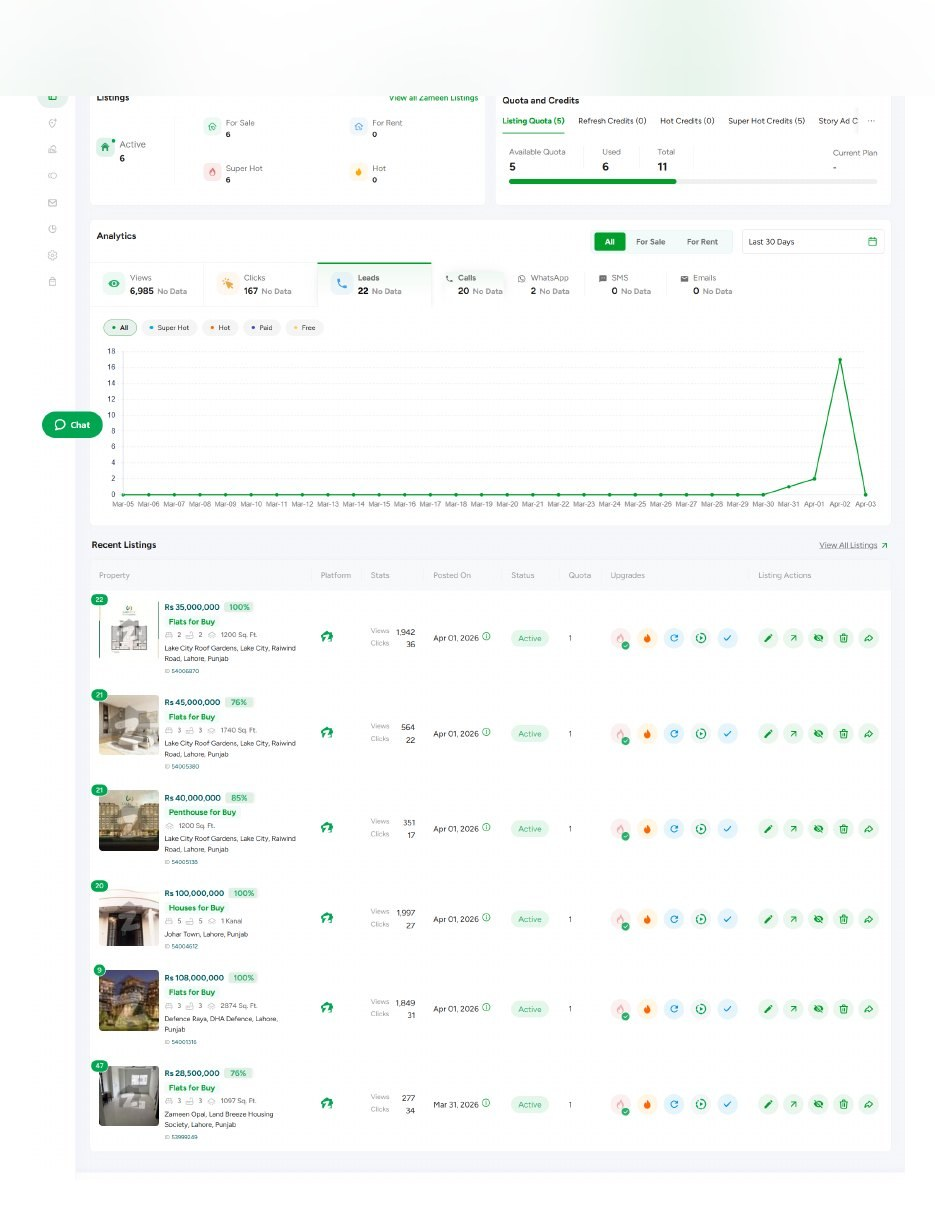
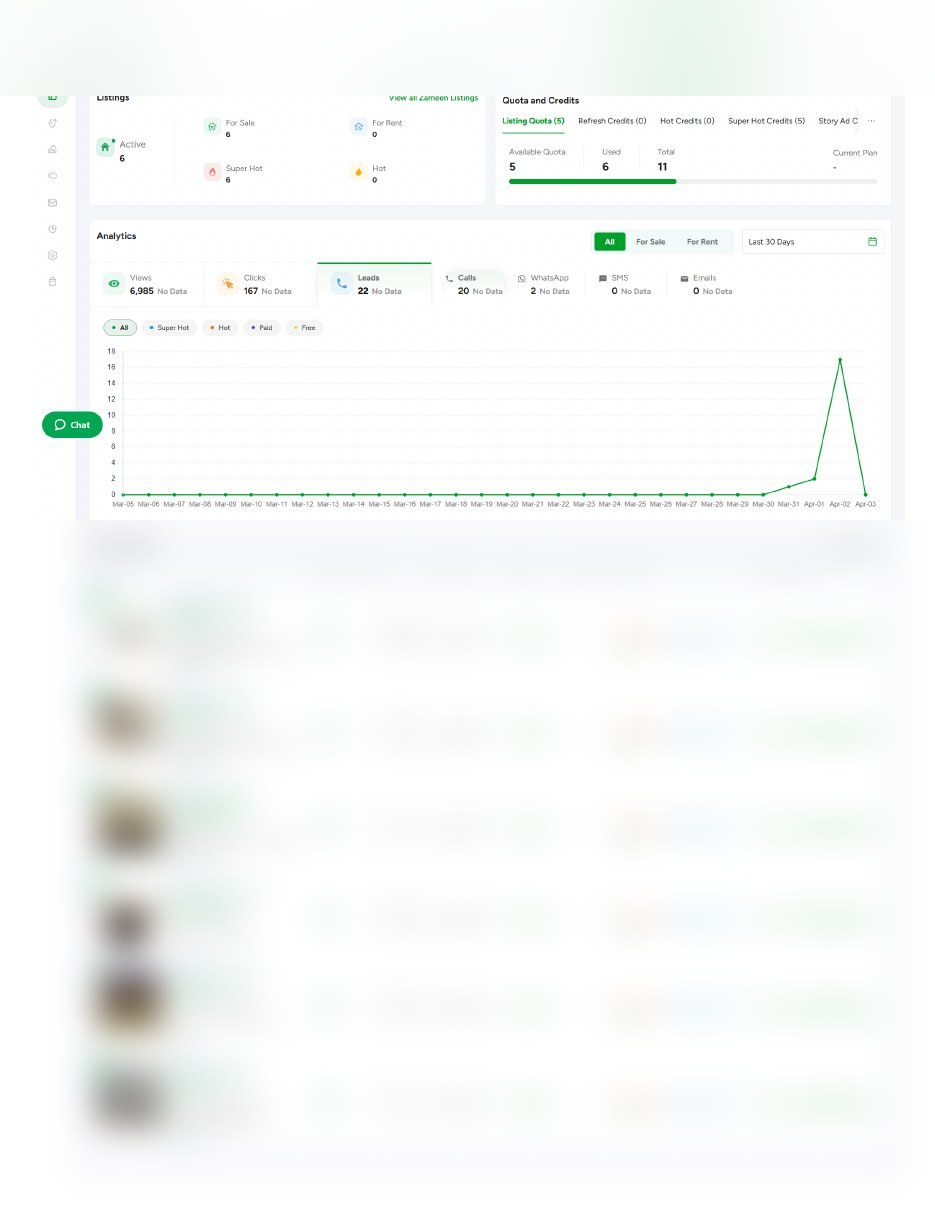
Redact what is left, and give the first screen something to press
The listings table went out whole — addresses, photographs, prices, all
of it — leaving the analytics above it, which is the part that is his.

The Canadian roster has no picture on the site at all now. The page keeps
what was done for them, five disciplines across eleven trades, and says
plainly that there are no screenshots because the roster is under NDA.

Cities become countries: the two Kenyan branches roll up into one Kenya
row at $0.30, which is what the weighted figure actually is, and the
market strip says Kenya rather than naming the branch.

The first screen was too quiet to act on. The headline runs to 104px, the
action is a bar you press rather than a caption with an arrow beside it,
and it carries the one colour on the site — on the ring at rest, filling
the whole bar on hover, with a slow pulse beside the keyboard hint. The
card from the index comes to the gate too: the work half shows a case
plate, the person half shows the drawing.

Claude-Session: https://claude.ai/code/session_01NT6ttGCqyWMcE62YdZSvuC

diff --git a/index.html b/index.html
@@ -25,6 +25,7 @@
   --paper:#FBFAF8;      /* off-white ink */
   --quiet:#8A8A86;      /* label grey */
   --hair:#232322;       /* rules */
+  --acid:#D9FF3F;      /* the one colour, and only on the thing you press */
   --dim:#78766F;        /* small caps still need 4.5:1 on the ink */
   --plate:#FBFAF8;      /* paper the portrait is printed on */
   --display:Anton,Impact,"Haettenschweiler","Arial Narrow Bold",sans-serif;
@@ -151,9 +152,9 @@ a{color:inherit;text-decoration:none}
 .hw .pill{border:1px solid #2B2A28;color:var(--quiet)}
 .hp .pill{border:1px solid #DCD8D0;color:#6E6B66}
 .dk{display:block;font-family:var(--display);text-transform:uppercase;font-weight:400;
-  letter-spacing:-.012em;font-size:clamp(30px,4.3vw,66px);line-height:.9}
-.dn{display:block;margin-top:clamp(10px,1.1vw,16px);font-family:var(--tag);
-  font-size:clamp(12px,1vw,16px);line-height:1.45;max-width:30ch;
+  letter-spacing:-.015em;font-size:clamp(38px,6.6vw,104px);line-height:.86}
+.dn{display:block;margin-top:clamp(12px,1.3vw,20px);font-family:var(--tag);
+  font-size:clamp(13px,1.15vw,19px);line-height:1.4;max-width:30ch;
   transform:rotate(-1.1deg);transform-origin:left;transition:color .5s}
 .hw .dn{color:var(--dim)} .hp .dn{color:#6E6B66}
 /* At rest each half runs its own index down the far edge, so the screen is
@@ -192,20 +193,23 @@ a{color:inherit;text-decoration:none}
 /* the action line: what happens when you click, and the arrow that says you can */
 .hfoot{display:flex;flex-direction:column;gap:clamp(10px,1.1vw,15px)}
 .dgo{display:flex;align-items:center;justify-content:space-between;gap:16px;
-  padding-top:clamp(14px,1.4vw,20px)}
-.hw .dgo{border-top:1px solid #272624} .hp .dgo{border-top:1px solid #DCD8D0}
-.dgt{font-family:var(--ui);font-weight:400;font-size:11px;letter-spacing:.2em;
-  text-transform:uppercase;transition:color .45s}
+  padding:clamp(13px,1.3vw,18px) clamp(14px,1.4vw,20px) clamp(13px,1.3vw,18px)
+          clamp(18px,1.8vw,26px);
+  border-radius:999px;transition:background .45s cubic-bezier(.3,0,.1,1),
+                                border-color .45s cubic-bezier(.3,0,.1,1)}
+.hw .dgo{border:1px solid #38352F} .hp .dgo{border:1px solid #D3CEC5}
+.dgt{font-family:var(--ui);font-weight:400;font-size:clamp(11px,.95vw,13px);
+  letter-spacing:.2em;text-transform:uppercase;transition:color .45s}
 .hw .dgt{color:var(--quiet)} .hp .dgt{color:#5E5B57}
 .meta{font-family:var(--ui);font-size:9px;letter-spacing:.26em;text-transform:uppercase}
 .meta i{font-style:normal}
 .hw .meta{color:#54514D} .hp .meta{color:#A09B93}
 .meta .tp{display:none}
-.dar{flex:none;width:clamp(44px,3.6vw,58px);height:clamp(44px,3.6vw,58px);
+.dar{flex:none;width:clamp(38px,3vw,48px);height:clamp(38px,3vw,48px);
   border-radius:50%;display:grid;place-items:center;
   transition:background .5s cubic-bezier(.22,1,.36,1),
              border-color .5s cubic-bezier(.22,1,.36,1)}
-.hw .dar{border:1px solid #3C3A37} .hp .dar{border:1px solid #CFCAC2}
+.hw .dar,.hp .dar{border:1px solid var(--acid)}
 .dar svg{width:44%;height:44%;fill:none;stroke-width:1.6;
   stroke-linecap:round;stroke-linejoin:round;
   transition:stroke .5s,transform .5s cubic-bezier(.22,1,.36,1)}
@@ -220,15 +224,20 @@ a{color:inherit;text-decoration:none}
   .half:hover .evc{opacity:1}
   .half:hover .e1{transform:rotate(1.4deg) translateY(0)}
   .half:hover .e2{transform:rotate(-1.2deg) translateY(0)}
-  .hw:hover .dgt,.hw:hover .pill{color:var(--paper)}
-  .hw:hover .pill{border-color:#55524E}
-  .hw:hover .dar{background:var(--paper);border-color:var(--paper)}
-  .hw:hover .dar svg{stroke:var(--ink);transform:translateX(2px)}
-  .hp:hover .dgt,.hp:hover .pill{color:var(--ink)}
-  .hp:hover .pill{border-color:#B6B1A9}
-  .hp:hover .dar{background:var(--ink);border-color:var(--ink)}
-  .hp:hover .dar svg{stroke:var(--paper);transform:translateX(2px)}
+  .hw:hover .pill{color:var(--paper);border-color:#55524E}
+  .hp:hover .pill{color:var(--ink);border-color:#B6B1A9}
+  /* the button lights up in the one colour the site owns */
+  .half:hover .dgo{background:var(--acid);border-color:var(--acid)}
+  .half:hover .dgt{color:#121209}
+  .half:hover .dar{background:#121209;border-color:#121209}
+  .half:hover .dar svg{stroke:var(--acid);transform:translateX(2px)}
 }
+/* something on the screen has a pulse, so it reads as live rather than printed */
+.meta{display:flex;align-items:center;gap:9px}
+.pulse{width:6px;height:6px;border-radius:50%;background:var(--acid);flex:none;
+  animation:beat 2.4s ease-in-out infinite}
+@keyframes beat{0%,100%{opacity:.25;transform:scale(.8)}50%{opacity:1;transform:scale(1)}}
+@media (prefers-reduced-motion:reduce){ .pulse{animation:none;opacity:.8} }
 .half:focus-visible{outline:2px solid currentColor;outline-offset:-12px}
 /* the monogram rides the seam and leans toward whichever side is winning */
 .seam{position:absolute;left:50%;top:50%;z-index:5;opacity:0;
@@ -390,7 +399,7 @@ a{color:inherit;text-decoration:none}
    evidence under the cursor: the screenshot and the number the case turns on.
    It is a preview of the page you are about to open, not decoration, so it
    carries the real plate from that case. Pointer devices only. */
-.pk{position:fixed;left:0;top:0;z-index:40;width:280px;pointer-events:none;
+.pk{position:fixed;left:0;top:0;z-index:70;width:280px;pointer-events:none;
   opacity:0;will-change:transform;
   border:1px solid #2E2C2A;background:#0C0C0B;
   box-shadow:0 26px 60px rgba(0,0,0,.72)}
@@ -542,8 +551,8 @@ a{color:inherit;text-decoration:none}
         <span class="dn">Twelve cases. Screenshots, invoices, dashboards.</span>
       </span>
       <span class="hfoot">
-        <span class="dgo"><span class="dgt">Open the case files</span><span class="dar" aria-hidden="true"><svg viewBox="0 0 26 26"><path d="M5 13h15M13.5 6.5 20 13l-6.5 6.5"/></svg></span></span>
-        <span class="meta"><i class="kb">Press 1 or click</i><i class="tp">Tap this half</i></span>
+        <span class="dgo" role="presentation"><span class="dgt">Open the case files</span><span class="dar" aria-hidden="true"><svg viewBox="0 0 26 26"><path d="M5 13h15M13.5 6.5 20 13l-6.5 6.5"/></svg></span></span>
+        <span class="meta"><b class="pulse" aria-hidden="true"></b><i class="kb">Press 1 or click</i><i class="tp">Tap this half</i></span>
       </span>
     </a>
     <a class="half hp" href="#who" data-go="who">
@@ -558,8 +567,8 @@ a{color:inherit;text-decoration:none}
         <span class="dn">Where I work, what I run, how to reach me.</span>
       </span>
       <span class="hfoot">
-        <span class="dgo"><span class="dgt">Start at the beginning</span><span class="dar" aria-hidden="true"><svg viewBox="0 0 26 26"><path d="M5 13h15M13.5 6.5 20 13l-6.5 6.5"/></svg></span></span>
-        <span class="meta"><i class="kb">Press 2 or click</i><i class="tp">Tap this half</i></span>
+        <span class="dgo" role="presentation"><span class="dgt">Start at the beginning</span><span class="dar" aria-hidden="true"><svg viewBox="0 0 26 26"><path d="M5 13h15M13.5 6.5 20 13l-6.5 6.5"/></svg></span></span>
+        <span class="meta"><b class="pulse" aria-hidden="true"></b><i class="kb">Press 2 or click</i><i class="tp">Tap this half</i></span>
       </span>
     </a>
   </nav>
@@ -670,7 +679,7 @@ a{color:inherit;text-decoration:none}
         <span class="idx">05</span>
         <span class="ttl">An email platform built in-house instead of rented</span>
         <span class="met">158,933 sends</span></span></a>
-      <a class="row" href="/work/twelve-brands/" data-slug="twelve-brands" data-peek="/assets/work/cs/salon.jpg" data-fig="12" data-fk="brands" data-industry="Local services" data-market="Canada"><span class="sweep"></span><span class="in">
+      <a class="row" href="/work/twelve-brands/" data-slug="twelve-brands" data-peek="" data-fig="12" data-fk="brands" data-industry="Local services" data-market="Canada"><span class="sweep"></span><span class="in">
         <span class="idx">06</span>
         <span class="ttl">Twelve Canadian brands, handled end to end</span>
         <span class="met">Search, brand, web</span></span></a>
@@ -690,7 +699,7 @@ a{color:inherit;text-decoration:none}
         <span class="idx">10</span>
         <span class="ttl">Brand protection, from the first copy to the takedown</span>
         <span class="met">Content theft</span></span></a>
-      <a class="row" href="/work/account-recovery/" data-slug="account-recovery" data-peek="/assets/work/cs/insta.jpg" data-fig="112K" data-fk="followers back" data-industry="Brand" data-market="Mombasa"><span class="sweep"></span><span class="in">
+      <a class="row" href="/work/account-recovery/" data-slug="account-recovery" data-peek="/assets/work/cs/insta.jpg" data-fig="112K" data-fk="followers back" data-industry="Brand" data-market="Kenya"><span class="sweep"></span><span class="in">
         <span class="idx">11</span>
         <span class="ttl">A 112,000-follower account, taken and recovered</span>
         <span class="met">Social</span></span></a>
@@ -1493,6 +1502,25 @@ Promise.resolve(JSON.parse(document.getElementById('sigdata').textContent)).then
     .to('.dar svg', {x:0, duration:.8, ease:'elastic.out(1,.55)', stagger:.08}, '-=0.14')
     .set(skip, {display:'block'}, '-=0.9')
     .to(skip, {opacity:1, duration:.5, ease:'power2.out'}, '-=0.85');
+
+  // the same card the index uses, so the gesture is one gesture
+  if (!RM && matchMedia('(hover: hover)').matches && doors){
+    const plate = document.querySelector('.plate');
+    const cards = {
+      work: {img:'/assets/work/grp/cover.jpg', fig:'12', fk:'cases on file'},
+      who:  {img: plate ? plate.dataset.src : '', fig:'2018', fk:'to now, five markets'}
+    };
+    doors.querySelectorAll('a').forEach(a => {
+      const d = cards[a.dataset.go] || {};
+      a.addEventListener('mouseenter', e => {
+        if (window.__peek) window.__peek.show(d, e.clientX, e.clientY);
+      });
+      a.addEventListener('mousemove', e => {
+        if (window.__peek) window.__peek.move(e.clientX, e.clientY);
+      }, {passive:true});
+      a.addEventListener('mouseleave', () => { if (window.__peek) window.__peek.hide(); });
+    });
+  }
 
   if (doors) doors.querySelectorAll('a').forEach(a => {
     a.addEventListener('click', e => { e.preventDefault(); open(a.dataset.go); });

diff --git a/work/twelve-brands/index.html b/work/twelve-brands/index.html
@@ -5,12 +5,11 @@
 <meta name="viewport" content="width=device-width, initial-scale=1, viewport-fit=cover">
 <meta name="robots" content="noindex, nofollow">
 <title>Twelve brands, one roster — SQ Shah</title>
-<meta name="description" content="A Surrey agency roster covering eleven trades, handled remotely from Pakistan.">
+<meta name="description" content="An agency roster covering eleven trades, handled remotely from Pakistan.">
 <link rel="icon" href="/assets/favicon.ico" sizes="any">
 <meta name="theme-color" content="#000000">
 <meta property="og:title" content="Twelve brands, one roster">
-<meta property="og:description" content="A Surrey agency roster covering eleven trades, handled remotely from Pakistan.">
-<meta property="og:image" content="/assets/work/cs/salon.jpg">
+<meta property="og:description" content="An agency roster covering eleven trades, handled remotely from Pakistan.">
 <link rel="preload" href="/assets/fonts/anton.woff2" as="font" type="font/woff2" crossorigin>
 <link rel="preload" href="/assets/fonts/instrument.woff2" as="font" type="font/woff2" crossorigin>
 <link rel="stylesheet" href="/assets/case.css">
@@ -28,7 +27,6 @@
 </nav>
 
 <section class="cover">
-  <div class="shot"><img src="/assets/work/cs/salon.jpg" alt="" aria-hidden="true"></div>
   <div class="wrap">
     <p class="tagline">eleven trades, one person</p>
     <h1 class="h">12 <span class="mk">brands</span></h1>
@@ -70,14 +68,19 @@
     </div>
   </div>
   <div class="body">
-    <figure class="plate">
-      <img src="/assets/work/cs/salon.jpg" alt="Brand and identity work for one of the twelve">
-      <figcaption><span class="lbl">Brand work</span><span class="lbl">One of twelve, name withheld</span></figcaption>
-    </figure>
+    <div class="lst" data-rise>
+      <div class="pt"><span class="lbl">What each brand got</span>
+        <span class="lbl">the same standard, eleven trades</span></div>
+      <div class="lr"><span class="ln2">Technical and on-page search</span><i></i><span class="ls">per site</span></div>
+      <div class="lr"><span class="ln2">Citations and local listings</span><i></i><span class="ls">per trade</span></div>
+      <div class="lr"><span class="ln2">Link building</span><i></i><span class="ls">ongoing</span></div>
+      <div class="lr"><span class="ln2">Content</span><i></i><span class="ls">to the brief</span></div>
+      <div class="lr"><span class="ln2">Brand and identity work</span><i></i><span class="ls">where it was missing</span></div>
+    </div>
     <div class="fig" data-rise>
       <span class="v" data-n="12">12</span>
       <span class="lbl k">Brands at once</span>
-      <p class="note" style="margin-top:14px">names withheld &mdash; available on request</p>
+      <p class="note" style="margin-top:14px">no screenshots &mdash; roster under agency NDA</p>
     </div>
   </div>
 </section>

diff --git a/work/motor-group/index.html b/work/motor-group/index.html
@@ -43,7 +43,7 @@
 <section class="strip">
   <div class="wrap"><div class="in">
     <div><span class="lbl">Industry</span><b>Automotive</b></div>
-    <div><span class="lbl">Market</span><b>Mombasa</b></div>
+    <div><span class="lbl">Market</span><b>Kenya</b></div>
     <div><span class="lbl">Duration</span><b>Four years</b></div>
     <div><span class="lbl">Channels</span><b>Google, Meta, Email</b></div>
     <div><span class="lbl">Role</span><b>Performance lead</b></div>
@@ -94,27 +94,24 @@
         <span class="mark" aria-hidden="true"><svg viewBox="0 0 32 32"><path d="M5 20c0-7 3.4-11 7-11s5 4 8 8 4.6 5 6 5c2.2 0 3-2 3-5s-1.4-6-4-6"/></svg></span>
         <h2 class="h">Meta carried the <span class="mk">leads</span></h2>
       </div>
-      <div class="meta"><span>Lead forms</span><span>Traffic</span><span>Boosted posts</span><span>Five branches</span></div>
+      <div class="meta"><span>Lead forms</span><span>Traffic</span><span>Boosted posts</span><span>Three markets</span></div>
     </div>
   </div>
   <div class="body">
     <div class="panel" data-panel>
-      <div class="pt"><span class="lbl">Leads by branch</span>
+      <div class="pt"><span class="lbl">Leads by market</span>
         <span class="lbl">16.9M reached &nbsp;&middot;&nbsp; 32.2M impressions</span></div>
-      <div class="br"><span class="bn">Dar es Salaam</span>
+      <div class="br"><span class="bn">Kenya</span>
         <span class="tk" style="--w:100.0%"><i></i></span>
+        <span class="bv">19,881</span><span class="bc">$0.30</span></div>
+      <div class="br"><span class="bn">Tanzania</span>
+        <span class="tk" style="--w:59.7%"><i></i></span>
         <span class="bv">11,866</span><span class="bc">$0.30</span></div>
-      <div class="br"><span class="bn">Kampala</span>
-        <span class="tk" style="--w:96.4%"><i></i></span>
+      <div class="br"><span class="bn">Uganda</span>
+        <span class="tk" style="--w:57.5%"><i></i></span>
         <span class="bv">11,435</span><span class="bc">$0.34</span></div>
-      <div class="br"><span class="bn">Mombasa</span>
-        <span class="tk" style="--w:90.1%"><i></i></span>
-        <span class="bv">10,693</span><span class="bc">$0.39</span></div>
-      <div class="br"><span class="bn">Kisumu</span>
-        <span class="tk" style="--w:77.4%"><i></i></span>
-        <span class="bv">9,188</span><span class="bc">$0.19</span></div>
       <div class="br"><span class="bn">Commercial</span>
-        <span class="tk" style="--w:30.0%"><i></i></span>
+        <span class="tk" style="--w:17.9%"><i></i></span>
         <span class="bv">3,565</span><span class="bc">$0.17</span></div>
     </div>
     <div class="fig" data-rise>

diff --git a/work/account-recovery/index.html b/work/account-recovery/index.html
@@ -65,7 +65,7 @@
         <span class="mark" aria-hidden="true"><svg viewBox="0 0 32 32"><rect x="6" y="14" width="20" height="14"/><path d="M11 14v-4a5 5 0 0 1 10 0v4"/></svg></span>
         <h2 class="h">Persistence and a paper <span class="mk">trail</span></h2>
       </div>
-      <div class="meta"><span>Compromised</span><span>Official route failed</span><span>Mombasa branch</span></div>
+      <div class="meta"><span>Compromised</span><span>Official route failed</span><span>One branch</span></div>
     </div>
   </div>
   <div class="body">

diff --git a/build_cases.py b/build_cases.py
@@ -50,7 +50,7 @@ CASES = [
         big='$0.29', bigmk='a lead',
         sub='Six ad accounts for an East African motor group, consolidated into one '
             'structure that could say what a sale had cost.',
-        strip=[('Industry', 'Automotive'), ('Market', 'Mombasa'),
+        strip=[('Industry', 'Automotive'), ('Market', 'Kenya'),
                ('Duration', 'Four years'), ('Channels', 'Google, Meta, Email'),
                ('Role', 'Performance lead')],
         problem=dict(head='Nobody knew what a <span class="mk">sale</span> cost',
@@ -66,12 +66,13 @@ CASES = [
                  fig=fig('1,238,753', 1238753), figk='Clicks', note='three cents each'),
             dict(id='meta', label='Meta', icon='swoosh',
                  head='Meta carried the', mk='leads',
-                 chips=['Lead forms', 'Traffic', 'Boosted posts', 'Five branches'],
+                 chips=['Lead forms', 'Traffic', 'Boosted posts', 'Three markets'],
                  panel=dict(
-                     left='Leads by branch',
+                     left='Leads by market',
                      right='16.9M reached &nbsp;&middot;&nbsp; 32.2M impressions',
-                     rows=[('Dar es Salaam', 11866, '$0.30'), ('Kampala', 11435, '$0.34'),
-                           ('Mombasa', 10693, '$0.39'), ('Kisumu', 9188, '$0.19'),
+                     # two Kenyan branches, rolled up: the country is the public unit
+                     rows=[('Kenya', 19881, '$0.30'), ('Tanzania', 11866, '$0.30'),
+                           ('Uganda', 11435, '$0.34'),
                            ('Commercial', 3565, '$0.17')]),
                  fig=fig('46,747', 46747), figk='Leads at $0.30', note='five branches'),
             dict(id='email', label='Email', icon='mail',
@@ -353,9 +354,7 @@ CASES = [
     dict(
         slug='twelve-brands',
         title='Twelve brands, one roster',
-        desc='A Surrey agency roster covering eleven trades, handled remotely from '
-             'Pakistan.',
-        shot='/assets/work/cs/salon.jpg',
+        desc='An agency roster covering eleven trades, handled remotely from Pakistan.',
         tagline='eleven trades, one person',
         big='12', bigmk='brands',
         sub='A daycare, construction, landscaping, a restaurant, a salon, plumbing, pest '
@@ -369,11 +368,15 @@ CASES = [
             dict(id='search', label='Search', icon='link',
                  head='Off-page carried the', mk='rankings',
                  chips=['Link building', 'Citations', 'Local listings', 'Content'],
-                 img='/assets/work/cs/salon.jpg',
-                 alt='Brand and identity work for one of the twelve',
-                 cap=('Brand work', 'One of twelve, name withheld'),
+                 lst=dict(left='What each brand got',
+                          right='the same standard, eleven trades',
+                          rows=[('Technical and on-page search', 'per site'),
+                                ('Citations and local listings', 'per trade'),
+                                ('Link building', 'ongoing'),
+                                ('Content', 'to the brief'),
+                                ('Brand and identity work', 'where it was missing')]),
                  fig=fig('12', 12), figk='Brands at once',
-                 note='names withheld &mdash; available on request'),
+                 note='no screenshots &mdash; roster under agency NDA'),
         ],
         aside=('Twelve trades that share nothing except needing to be found on the same',
                'map'),
@@ -575,7 +578,7 @@ CASES = [
         chapters=[
             dict(id='trail', label='Escalation', icon='lock',
                  head='Persistence and a paper', mk='trail',
-                 chips=['Compromised', 'Official route failed', 'Mombasa branch'],
+                 chips=['Compromised', 'Official route failed', 'One branch'],
                  lst=dict(left='What it took', right='fully restored',
                           rows=[('Standard recovery', 'failed'),
                                 ('Identity verification', 'filed'),
